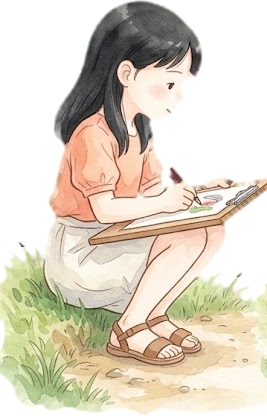
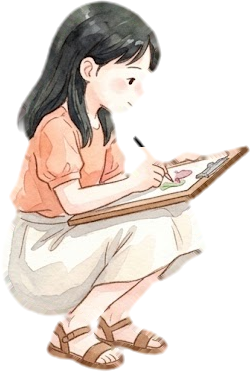
なつみのポーズの絵を、地面のない絵に差し替える
- 4つのポーズが離れたので、縦に切らずに1つずつ切り分ける
- 地面がなくなったぶん、座った姿の高さを立ち絵と頭の大きさがそろうように直す

Claude-Session: https://claude.ai/code/session_01Vg6TEf9cP8PPc3qn5kFkS1

diff --git a/tools/art/process_painted.py b/tools/art/process_painted.py
@@ -34,11 +34,6 @@ CROPS = {
 	'prop_slope': [40, None, 1000, 535],
 	# 飛び込み岩の絵から、岩だけ（淵は川の帯を暗くして描く）
 	'prop_diverock': [None, None, 472, None],
-	# なつみのポーズ（地面がつながっているので、縦に切って1つずつ）
-	'natsumi_mg1_1': [None, None, 267, None],
-	'natsumi_mg1_2': [267, None, 515, None],
-	'natsumi_mg1_3': [515, None, 776, None],
-	'natsumi_mg1_4': [776, None, None, None],
 }
 ## 1枚に横に並んだものを切り分けるときの、書き出す名前
 SPLITS = {
@@ -56,6 +51,7 @@ SPLITS = {
 	# 初恋ルート（なつみ）
 	'radio_kids': 'radio_kid',
 	'shells': 'shell',
+	'natsumi_mg1': 'natsumi_mg1',
 	'puddles': 'puddle',
 }
 ## 左右の端をぼかす幅：[左, 右]
